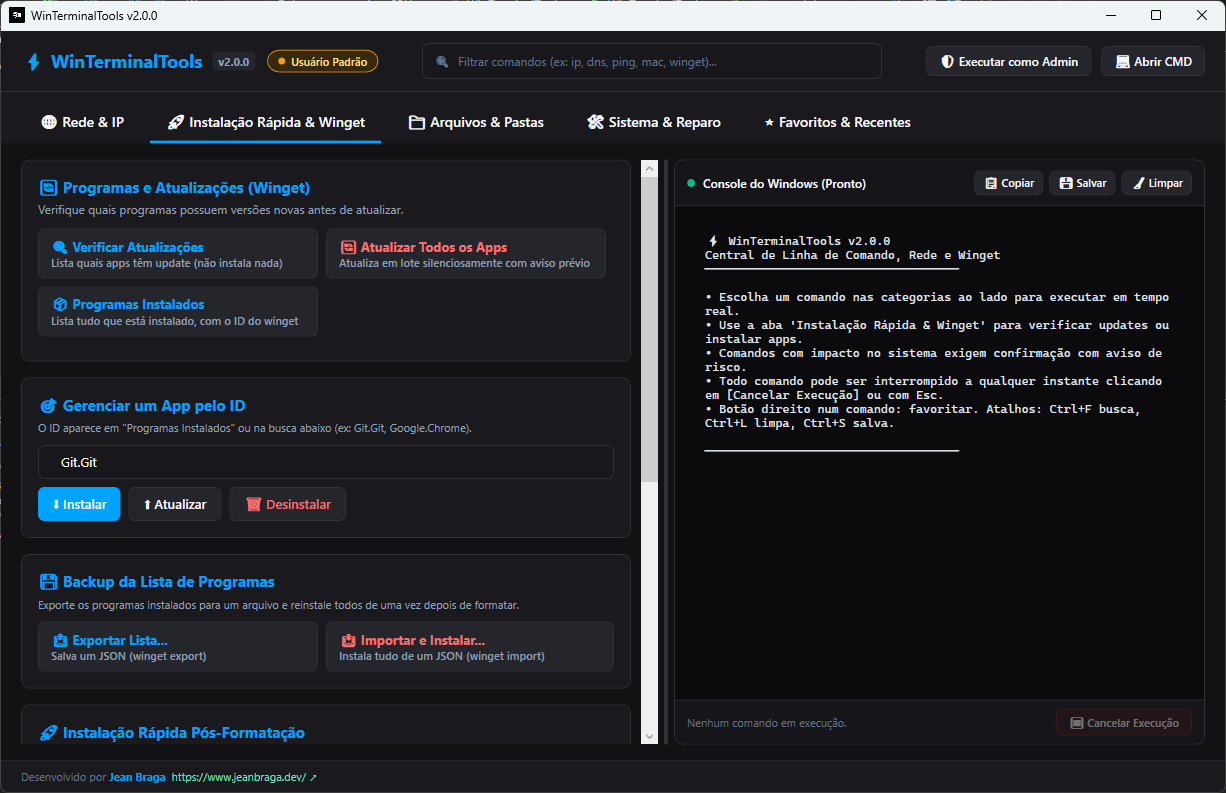
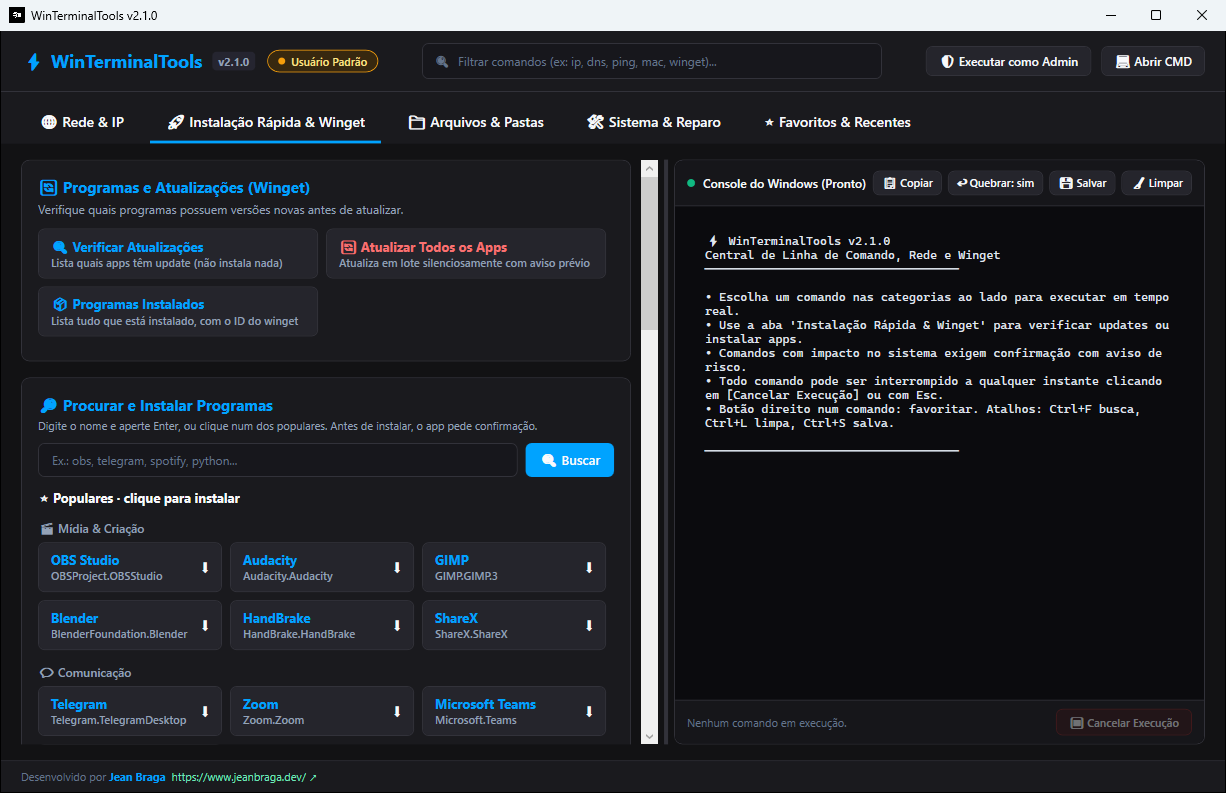
chore: versão 2.1.0, prints novos e notas da Release

diff --git a/README.md b/README.md
@@ -1,4 +1,4 @@
-# WinTerminalTools v2.0
+# WinTerminalTools v2.1
 
 Ferramenta com interface gráfica (WPF, .NET 10) para Windows 64 bits que reúne os comandos úteis do CMD e do PowerShell em botões com descrição. A saída aparece em tempo real num console embutido, qualquer execução pode ser cancelada e os comandos que mexem no sistema pedem confirmação com aviso de risco.
 
@@ -10,8 +10,8 @@ Ferramenta com interface gráfica (WPF, .NET 10) para Windows 64 bits que reúne
 
 | Aba | Comandos |
 |---|---|
-| 🌐 **Rede & IP** | ipconfig (/all, /flushdns, /displaydns, /release, /renew), getmac, arp, netstat, rotas, proxy, ping, tracert, nslookup, teste de porta, reset de Winsock e TCP/IP, reparo completo da rede, Wi-Fi atual, redes salvas e senha de uma rede salva |
-| 🚀 **Instalação Rápida & Winget** | verificar e aplicar atualizações, programas instalados, instalar/atualizar/desinstalar por ID, busca no repositório, exportar e importar a lista de programas, instalação em lote pós-formatação (lista editável) |
+| 🌐 **Rede & IP** | ipconfig (/all, /flushdns, /displaydns, /release, /renew), getmac, arp, netstat, rotas, proxy, ping, tracert, nslookup, teste de porta, reset de Winsock e TCP/IP, reparo completo da rede; **rede cabeada e dispositivos**: adaptadores (cabo/Wi-Fi, velocidade, MAC), minha conexão (IP, roteador, DNS) e quem está conectado na rede (escaneamento com IP, nome e MAC); Wi-Fi atual, redes salvas e senha de uma rede salva |
+| 🚀 **Instalação Rápida & Winget** | verificar e aplicar atualizações, programas instalados, **procurar e instalar em cartões clicáveis** (com lista de populares por categoria), instalar/atualizar/desinstalar por ID, exportar e importar a lista de programas, instalação em lote pós-formatação (lista editável) |
 | 📁 **Arquivos & Pastas** | criar pasta, listar conteúdo (dir), abrir no Explorer, espaço em disco, saúde dos discos, limpar temporários, esvaziar lixeira |
 | 🛠 **Sistema & Reparo** | systeminfo, tasklist, tempo ligado, programas na inicialização, drivers, relatório de bateria, sfc, DISM, chkdsk, pontos de restauração, desligar/reiniciar programado, hibernar, bloquear, planos de energia |
 | ⭐ **Favoritos & Recentes** | seus comandos favoritos (botão direito em qualquer comando) e o histórico com "Repetir" |
@@ -20,11 +20,15 @@ Outros detalhes:
 
 - **Cores pelo risco:** azul só lê informações, laranja demora ou pesa no PC, vermelho altera o sistema. Os comandos marcados com 🛡 pedem Administrador, e o app avisa **antes** de executar (oferece reabrir como admin).
 - **Busca** (Ctrl+F) por nome, descrição ou comando, sem diferenciar acentos, abrindo a aba onde encontrou.
-- **Console:** copiar, salvar em .txt (Ctrl+S), limpar (Ctrl+L), cancelar (Esc). Atalhos Ctrl+1 a Ctrl+5 trocam de aba.
+- **Console organizado:** cada comando vira um bloco com título, hora, saída em lista legível e resultado com duração (✔ / ⚠ com explicação em português). Copiar, salvar em .txt (Ctrl+S), limpar (Ctrl+L), cancelar (Esc), quebra de linha liga/desliga. Atalhos Ctrl+1 a Ctrl+5 trocam de aba.
 
 <p align="center">
-  <img src="Resources/tela-winget.png" alt="Aba Instalação Rápida & Winget" width="410"/>
-  <img src="Resources/tela-sistema.png" alt="Aba Sistema & Reparo" width="410"/>
+  <img src="Resources/tela-winget.png" alt="Procurar e instalar programas, com populares por categoria" width="410"/>
+  <img src="Resources/tela-sistema.png" alt="Aba Sistema & Reparo com o console organizado em blocos" width="410"/>
+</p>
+<p align="center">
+  <img src="Resources/tela-rede-dispositivos.png" alt="Rede cabeada e dispositivos conectados" width="410"/>
+  <img src="Resources/tela-favoritos.png" alt="Favoritos, histórico e atalhos de teclado" width="410"/>
 </p>
 
 ## Instalação

diff --git a/docs/releases/v2.1.0.md b/docs/releases/v2.1.0.md
@@ -1,0 +1,35 @@
+## WinTerminalTools v2.1.0
+
+Console mais organizado, busca de programas em cartões e tudo sobre a sua rede local.
+
+### Downloads
+
+| Arquivo | Para quem |
+|---|---|
+| `WinTerminalTools.exe` (~62 MB) | **Recomendado.** Executável único, sem ZIP: funciona em qualquer Windows 10/11 64 bits, sem instalar nada. |
+| `WinTerminalTools-v2.1.0-win-x64-completo.zip` (~57 MB) | O mesmo executável completo, compactado. |
+| `WinTerminalTools-v2.1.0-win-x64.zip` (menos de 1 MB) | Exige o [.NET 10 Desktop Runtime](https://dotnet.microsoft.com/download/dotnet/10.0). |
+
+Abra o `WinTerminalTools.exe` (nos ZIPs, extraia antes). Na primeira vez o Windows pode mostrar "O Windows protegeu o computador": clique em **Mais informações → Executar mesmo assim** (o executável não tem assinatura digital paga).
+
+### Novidades
+
+**🖧 Rede cabeada e dispositivos** (aba Rede & IP)
+- Adaptadores de rede: cabo, Wi-Fi ou virtual, se está conectado, velocidade e MAC.
+- Minha conexão: meu IP, roteador e DNS em três linhas.
+- Quem está na minha rede: aparelhos conhecidos e **escaneamento** da rede local, com IP, nome e MAC (marca o roteador e este PC).
+
+**🔎 Procurar e instalar programas** (aba Winget)
+- Lista de **populares por categoria** pronta para instalar com um clique.
+- A busca (Enter ou botão) mostra os resultados em **cartões** com nome, versão e origem. Clique, confirme e instale.
+
+**🧾 Console organizado**
+- Cada comando vira um bloco: título e hora, saída e resultado com duração.
+- Informações de sistema em lista fácil de ler (inicialização, discos com barra de uso, pontos de restauração, teste de porta).
+- Erros do winget explicados em português.
+- Botão para ligar/desligar a quebra de linha (tabelas alinhadas).
+
+### Correções
+- **WhatsApp** não instalava: saiu do winget comunitário e agora vem da Microsoft Store (`9NKSQGP7F2NH`). **Brave** mudou de ID (`Brave.Brave`). Listas personalizadas antigas são corrigidas sozinhas.
+- **Acentos quebrados** em alguns comandos (ex.: netsh mostrava "Servi├ºo"): a saída agora detecta a codificação de cada linha.
+- A animação de progresso do winget não suja mais o console.
